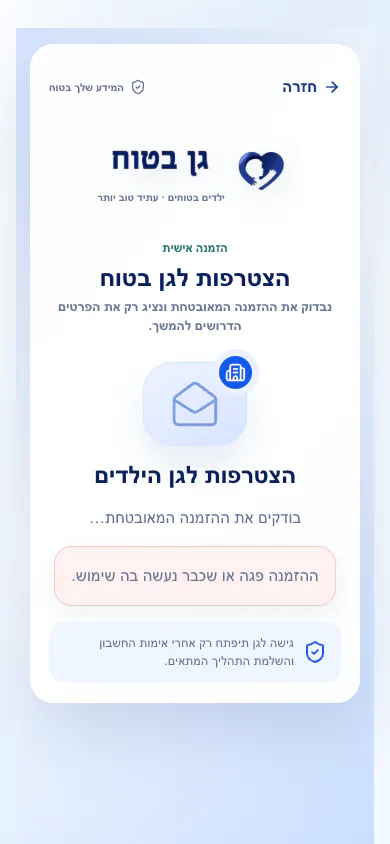
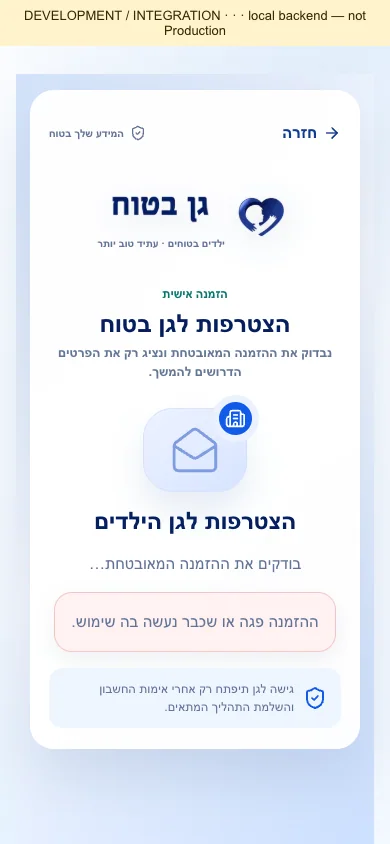
fix: align authentication visual references

diff --git a/app/styles/ux-implement-01.css b/app/styles/ux-implement-01.css
@@ -151,8 +151,8 @@ body:has(.gb-auth-flow-page) .gb-public-header { display: none; }
 .gb-welcome-footer button { opacity: .68; }
 
 /* Shared Auth shell: desktop split, mobile task-first. */
-.gb-auth-v2-stage { grid-template-columns: minmax(460px, .78fr) minmax(0, 1fr); background: linear-gradient(135deg, #d4e3fb 0%, #f8fbff 44%, #c7dcff 100%); }
-.gb-auth-v2-story { order: 1; align-content: end; min-height: 100dvh; background: linear-gradient(180deg, rgb(7 38 103 / 5%), rgb(4 31 88 / 92%)), url('/assets/gan-batuach-auth-hero.webp') 70% center / cover; }
+.gb-auth-v2-stage { grid-template-columns: minmax(460px, .78fr) minmax(0, 1fr); align-items: start; background: linear-gradient(135deg, #d4e3fb 0%, #f8fbff 44%, #c7dcff 100%); }
+.gb-auth-v2-story { position: sticky; inset-block-start: 0; order: 1; align-content: end; min-height: 100dvh; height: 100dvh; background: linear-gradient(180deg, rgb(7 38 103 / 5%), rgb(4 31 88 / 92%)), url('/assets/gan-batuach-auth-hero.webp') 84% center / cover; }
 .gb-auth-v2 .gb-auth-page { order: 2; padding: clamp(24px, 4vw, 54px); }
 .gb-auth-v2 .gb-auth-card { max-width: 680px; border: 1px solid rgb(255 255 255 / 78%); border-radius: 28px; padding: clamp(24px, 3vw, 42px); background: rgb(255 255 255 / 96%); box-shadow: 0 26px 70px rgb(8 45 109 / 15%); }
 .gb-auth-v2-story-copy { max-width: 520px; gap: 14px; }

diff --git a/GAN_BATUACH_UX01_VISUAL_QA_REPORT.md b/GAN_BATUACH_UX01_VISUAL_QA_REPORT.md
@@ -2,9 +2,9 @@
 
 Date: 2026-09-24
 
-Branch: `codex/ux-implement-01`
+Branch: `codex/ux-implement-01-reference-closure`
 
-Baseline: `origin/integration/development@4a677205bd60551dc8b690adedcca7c509e787da`
+Baseline: `origin/integration/development@5c44c8b4177c9ea34b00620665030391f4bd44fd` after PR #128 and its integration-closure PR #129 had already merged. PR #128 is therefore immutable; this evidence refresh and visual correction are carried by a scoped follow-up PR.
 
 Environment: isolated local Next.js runtime at `http://localhost:3012` with a non-Production loopback Auth responder and synthetic `example.test` identities only.
 
@@ -24,7 +24,8 @@ The references define visual language and do not reduce the canonical product sc
 - Locale/direction: `he-IL`, RTL.
 - Motion: disabled during capture so screenshots are deterministic; reduced-motion support was also verified in CSS.
 - Data: synthetic visual fixtures only. No customer or Production data appears in evidence.
-- Evidence: 28 WebP captures plus `SHA256SUMS` under `qa-evidence/ux-implement-01/`.
+- Evidence: 38 WebP captures plus `SHA256SUMS` under `qa-evidence/ux-implement-01/`.
+- Re-review scope: all original P0 Auth targets plus login error, verification unavailable, invalid recovery, invitation loading and wrong-recipient states.
 
 ## Core visual matrix
 
@@ -32,24 +33,29 @@ The references define visual language and do not reduce the canonical product sc
 |---|---|---|---|---|---|---|
 | Welcome | `/app` | 1440×1024; 390×844 | Auth master welcome | `welcome-desktop.webp`, `welcome-mobile.webp` | VISUAL_PASS | Desktop keeps a separate sign-in CTA required by the canonical route; mobile places actions before secondary copy. |
 | Login | `/app/login` | 1440×1024; 390×844 | Auth master account entry | `login-desktop.webp`, `login-mobile.webp` | VISUAL_PASS | Canonical Email/password login replaces the concept registration fields. |
+| Login — safe error | `/app/login?error=…` | 1440×1024; 390×844 | Auth master error language | `login-error-desktop.webp`, `login-error-mobile.webp` | VISUAL_PASS | A friendly actionable message is shown inside the form; no raw provider payload is exposed. |
 | Role selection | `/app/register` | 1440×1024; 390×844 | Auth master role selector | `roles-desktop.webp`, `roles-mobile.webp` | VISUAL_PASS | Only four public paths appear: Owner/Garden, Parent, Staff and Inspector. Platform Admin is intentionally absent. |
 | Owner registration | `/app/register/kindergarten` | 1440×1024; 390×844 | Auth master registration | `owner-desktop.webp`, `owner-mobile.webp` | VISUAL_PASS | Canonical account fields and Owner onboarding handoff are preserved. |
 | Parent registration | `/app/register/parent` | 1440×1024; 390×844 | Auth master registration | `parent-desktop.webp`, `parent-mobile.webp` | VISUAL_PASS | Canonical family-profile handoff is preserved. |
 | Staff registration | `/app/register/staff` | 1440×1024; 390×844 | Auth master registration | `staff-desktop.webp`, `staff-mobile.webp` | VISUAL_PASS | Candidate state is explicit; no Garden access is implied. |
 | Inspector registration | `/app/register/inspector` | 1440×1024; 390×844 | Auth master registration | `inspector-desktop.webp`, `inspector-mobile.webp` | VISUAL_PASS | Application handoff is explicit; no approval or assignment is implied. |
 | Email verification | `/app/verify-contact` | 1440×1024; 390×844 | Auth master envelope state | `verify-desktop.webp`, `verify-mobile.webp` | VISUAL_PASS | Backend truth controls completion; phone verification is not shown as required. |
+| Email verification — unavailable | `/app/verify-contact` | 1440×1024; 390×844 | Auth master unavailable/error language | `verification-unavailable-desktop.webp`, `verification-unavailable-mobile.webp` | VISUAL_PASS | Provider failure terminates in a retryable, truthful state rather than an indefinite spinner. |
 | Registration success | role registration routes | 1440×1024; 390×844 | Auth master success state | `success-desktop.webp`, `success-mobile.webp` | VISUAL_PASS | Captured through an intercepted synthetic registration response; no Production or customer account was created. |
 | Forgot password | `/forgot-password` | 1440×1024; 390×844 | Auth master state language | `forgot-desktop.webp`, `forgot-mobile.webp` | VISUAL_PASS | Privacy-safe acknowledgement does not disclose whether an account exists. |
 | Reset password — valid | `/reset-password` | 1440×1024; 390×844 | Auth master form/state language | `reset-valid-desktop.webp`, `reset-valid-mobile.webp` | VISUAL_PASS | Captured with an isolated synthetic recovery session. |
 | Reset password — success | `/reset-password` | 1440×1024; 390×844 | Auth master success state | `reset-success-desktop.webp`, `reset-success-mobile.webp` | VISUAL_PASS | Synthetic Auth endpoints verified update/sign-out state transitions; no plaintext password path was introduced. |
+| Reset password — invalid/expired | `/reset-password` | 1440×1024; 390×844 | Auth master invalid state | `reset-invalid-desktop.webp`, `reset-invalid-mobile.webp` | VISUAL_PASS | The expired or absent recovery session provides a safe request-new-link action. |
 | Invitation — valid | `/invite/accept?token=…` | 1440×1024; 390×844 | Auth master entry/state language | `invitation-valid-desktop.webp`, `invitation-valid-mobile.webp` | VISUAL_PASS | Garden and recipient are safely summarized; the new-account link was asserted to retain the invitation token. |
 | Invitation — expired | `/invite/accept?token=…` | 1440×1024; 390×844 | Auth master error state | `invitation-expired-desktop.webp`, `invitation-expired-mobile.webp` | VISUAL_PASS | Dedicated safe recovery state replaces generic 404/500 output. |
+| Invitation — loading | `/invite/accept?token=…` | 1440×1024; 390×844 | Auth master loading state | `invitation-loading-desktop.webp`, `invitation-loading-mobile.webp` | VISUAL_PASS | The pending request has an explicit labelled progress state. |
+| Invitation — wrong recipient/role | `/invite/accept?token=…` | 1440×1024; 390×844 | Auth master blocked state | `invitation-wrong-recipient-desktop.webp`, `invitation-wrong-recipient-mobile.webp` | VISUAL_PASS | The signed-in Parent receives a secure role-mismatch state without disclosure of full recipient details. |
 
 ## Visual acceptance findings
 
 - The official mark is used through one shared brand component. The exact owner-supplied source is retained in `public/assets/gan-batuach-brand-mark-official.png`; the normalized runtime asset preserves its shape while avoiding transparent source padding.
 - The hero uses one optimized 126 KB WebP, a warm kindergarten image created specifically for this Auth shell without text, logo, cameras or identifying adults.
-- Desktop uses a genuine split brand/form composition. Mobile removes the decorative split panel and uses a focused single-column flow rather than shrinking desktop.
+- Desktop uses a genuine split brand/form composition. Re-review found that long registration forms stretched the story column and cropped the Child out of the visible viewport. The story panel is now viewport-height and sticky with an 84% focal position, so the approved Child/Garden brand moment remains visible while the canonical form scrolls independently. Mobile remains a focused single-column flow rather than shrinking desktop.
 - Brand-blue CTA styling is scoped over legacy rescue CSS, preventing teal or generic Bootstrap-like primary actions.
 - Cards, fields, role tiles, step progress, status orbs, success/error notices, focus and press states use one token system.
 - Registration success scrolls to the start of the state instead of preserving the form's previous scroll position.
@@ -62,6 +68,8 @@ The references define visual language and do not reduce the canonical product sc
 - Email verification remains the normal activation requirement; SMS and WhatsApp actions are absent while unavailable.
 - Valid invitation registration keeps the signed token in the next URL.
 - Expired invitation gives an explicit recovery path.
+- Loading and wrong-recipient invitation states are now captured at both required viewports; the mismatch state does not offer an acceptance action.
+- Provider-unavailable Email resend and invalid recovery states resolve to explicit retry paths.
 - Password reset valid, validation, update-success and local sign-out states render without raw Auth errors.
 - Button busy/disabled states prevent visible double submission.
 - Evidence contains no customer information or secrets.
@@ -84,4 +92,4 @@ The references define visual language and do not reduce the canonical product sc
 
 `APPROVED GAN BATUACH VISUAL LANGUAGE PRESERVED: YES`
 
-Every required UX-IMPLEMENT-01 desktop and mobile target is `VISUAL_PASS`. The implementation is suitable for PR qualification; this decision does not authorize Production or UX-IMPLEMENT-02.
+Every required UX-IMPLEMENT-01 desktop and mobile target is `VISUAL_PASS`; `VISUAL_PARTIAL: 0` and `VISUAL_FAIL: 0`. The implementation is suitable for follow-up PR qualification; this decision does not authorize Production or UX-IMPLEMENT-02.

diff --git a/GAN_BATUACH_UX01_DESIGN_SYSTEM_IMPLEMENTATION.md b/GAN_BATUACH_UX01_DESIGN_SYSTEM_IMPLEMENTATION.md
@@ -33,7 +33,7 @@ Spacing, radius, elevation and motion reuse the established `--gb-*` token famil
 
 ## Desktop Auth shell
 
-The desktop layout pairs a bright, bounded form surface with a navy photographic story panel. It retains the official logo, concise trust copy and value indicators without crowding the operational task. The form surface has a stable readable width and routes may scroll vertically without a fixed-height trap.
+The desktop layout pairs a bright, bounded form surface with a navy photographic story panel. It retains the official logo, concise trust copy and value indicators without crowding the operational task. The form surface has a stable readable width and routes may scroll vertically without a fixed-height trap. The story panel stays at viewport height on long registration pages and uses the approved Child focal point, preventing canonical extra fields from stretching the image until the Child disappears from view.
 
 ## Mobile Auth shell
 
@@ -63,4 +63,4 @@ Canonical breakpoints are reused. The single Auth hero is delivered as optimized
 
 ## Visual acceptance
 
-The route-by-route matrix, viewports, screenshots, deviations and checksums are recorded in `GAN_BATUACH_UX01_VISUAL_QA_REPORT.md` and `qa-evidence/ux-implement-01/`. Every required desktop and mobile target is `VISUAL_PASS` against the four supplied references.
+The route-by-route matrix, viewports, screenshots, deviations and checksums are recorded in `GAN_BATUACH_UX01_VISUAL_QA_REPORT.md` and `qa-evidence/ux-implement-01/`. The refreshed evidence includes 38 screenshots covering the original core screens plus login error, provider-unavailable Email verification, invalid recovery, invitation loading and wrong-recipient states. Every required desktop and mobile target is `VISUAL_PASS` against the four supplied references.
